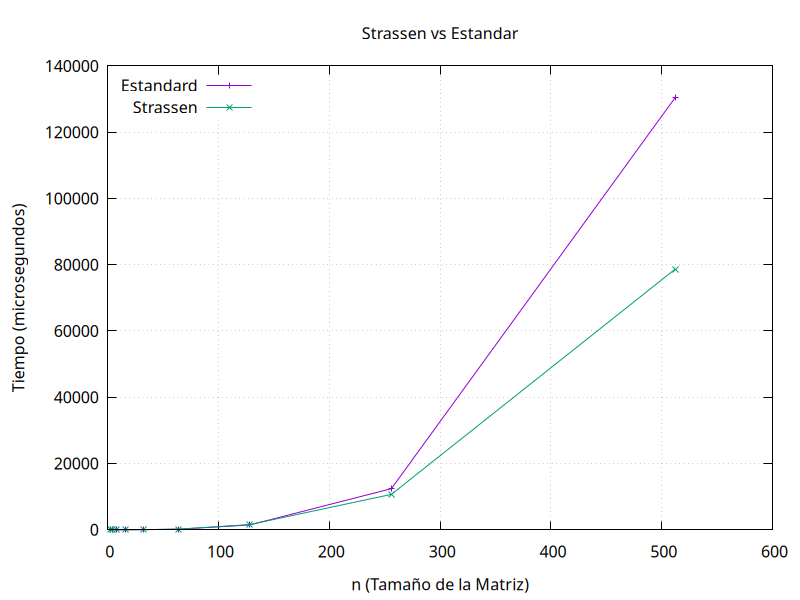
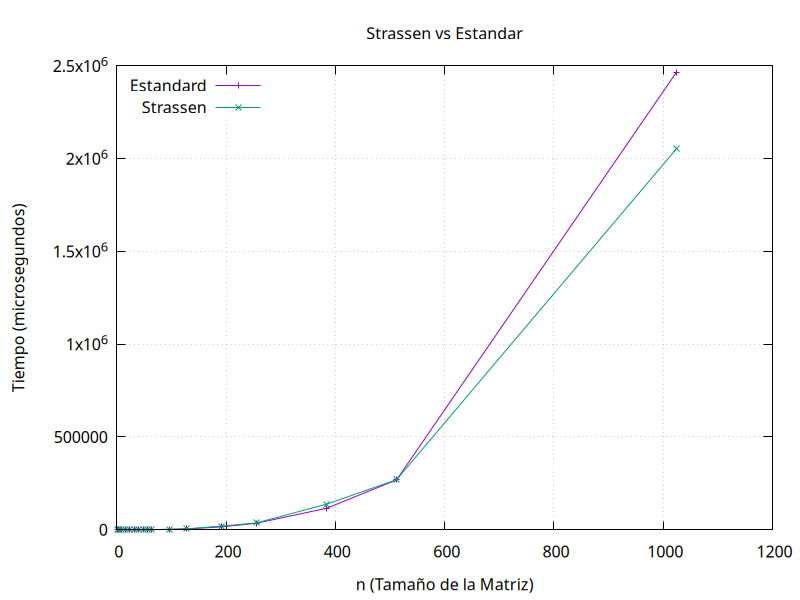
Se agrega funcion calcularN0() con interpolacion lineal para hallar empiricamente N0. Implementado con apoyo de IA para el diseño del algoritmo de interpolacion

diff --git a/main.cpp b/main.cpp
@@ -152,12 +152,36 @@ static double measureStrassen(const Matriz& A, const Matriz& B) {
   return (double)elapsedNanoseconds(start, end) / 1000.0;
 }
 
+// Calcula N0 por interpolacion lineal entre los puntos medidos.
+// Busca el ultimo cruce sostenido donde Strassen pasa a ser mas rapido.
+double calcularN0(const vector<int>& ns, const vector<double>& tStandars, const vector<double>& tStrassens) {
+  double n0 = -1;
+  for(int i = 1; i < (int)ns.size(); i++) {
+    double diff_prev = tStrassens[i-1] - tStandars[i-1]; // + = strassen mas lento
+    double diff_curr = tStrassens[i]   - tStandars[i];   // - = strassen mas rapido
+ 
+    if(diff_prev > 0 && diff_curr <= 0) {
+      // Interpolacion lineal: N0 = n1 + (n2-n1) * diff_prev / (diff_prev - diff_curr)
+      double candidato = ns[i-1] + (double)(ns[i] - ns[i-1])
+                         * diff_prev / (diff_prev - diff_curr);
+      cerr << "# Cruce entre n=" << ns[i-1] << " y n=" << ns[i]
+           << " -> N0 candidato = " << candidato << endl;
+      n0 = candidato; // se queda con el ultimo cruce sostenido
+    }
+  }
+  return n0;
+}
+
 int main(){
   srand(time(0));
   const int REPETICIONES = 10;
+
   cout << "# n tiempo_standar tiempo_strassen" << endl;
   
   vector<int> sizes = {2, 4, 8, 16, 24, 32, 40, 48, 56, 64, 96, 128, 192, 256, 384, 512, 1024};
+
+  vector<int>    ns;
+  vector<double> tStandars, tStrassens;  
 
   for(int size : sizes) {
     Matriz A = generateMatriz(size);
@@ -171,11 +195,21 @@ int main(){
       totalStrassen += measureStrassen(A, B);
     }
 
-    double tStandar = totalStandar / REPETICIONES;
-    double tStrassen = totalStrassen / REPETICIONES;
+    double tS = totalStandar / REPETICIONES;
+    double tSt = totalStrassen / REPETICIONES;
     
-    cout << size << " " << tStandar << " " << tStrassen << endl;
+    cout << size << " " << tS << " " << tSt << endl;
+
+    ns.push_back(size);
+    tStandars.push_back(tS);
+    tStrassens.push_back(tSt);    
   }
 
+  // Hallar N0
+  cerr << "\n# === Calculo de N0 (THRESHOLD=" << THRESHOLD << ") ===" << endl;
+  double n0 = calcularN0(ns, tStandars, tStrassens);
+  if(n0 > 0) cerr << "# N0 empirico = " << n0 << endl;
+  else cerr << "# No se encontro cruce: aumentar rango de n" << endl;
+ 
   return 0;
 }